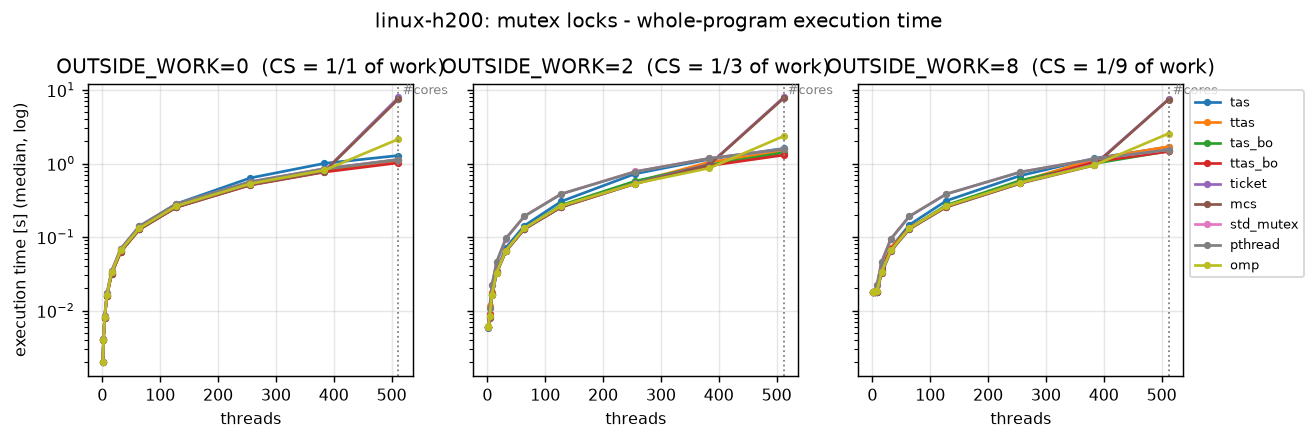
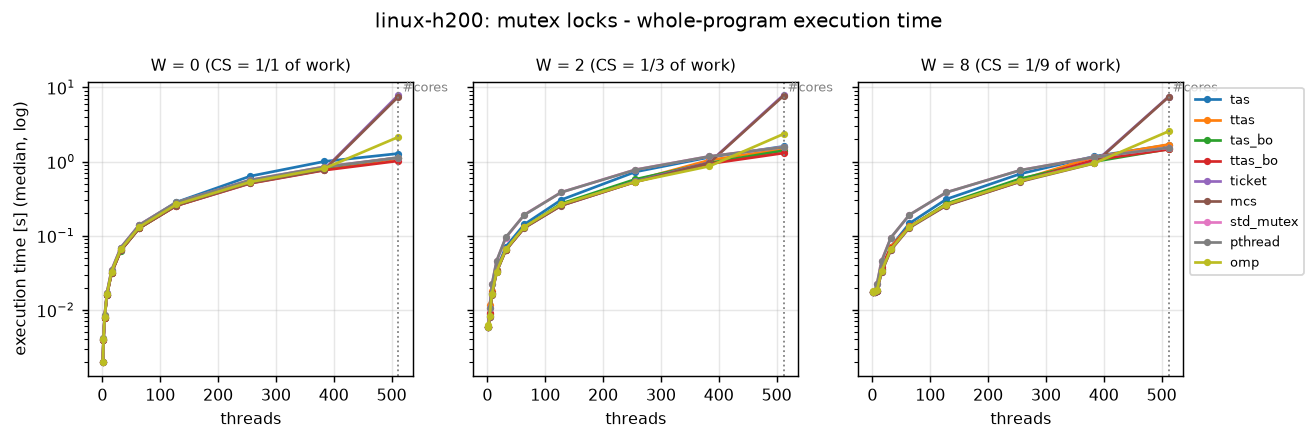
plot.py: shorter panel titles so they do not overlap

diff --git a/scripts/plot.py b/scripts/plot.py
@@ -55,7 +55,7 @@ def plot_locks(plat_dir, read, summary, name, ncpu):
                 series = med[(med["lock"] == lock) & (med["outside"] == outside_work)]
                 ax.plot(series["threads"], series["seconds"], marker="o", ms=3, label=lock)
             ax.set_yscale("log")
-            ax.set_title(f"OUTSIDE_WORK={outside_work}  (CS = 1/{outside_work + 1} of work)")
+            ax.set_title(f"W = {outside_work} (CS = 1/{outside_work + 1} of work)", fontsize=9)
             ax.set_xlabel("threads")
             vline(ax, ncpu)
         axes[0].set_ylabel("execution time [s] (median, log)")
